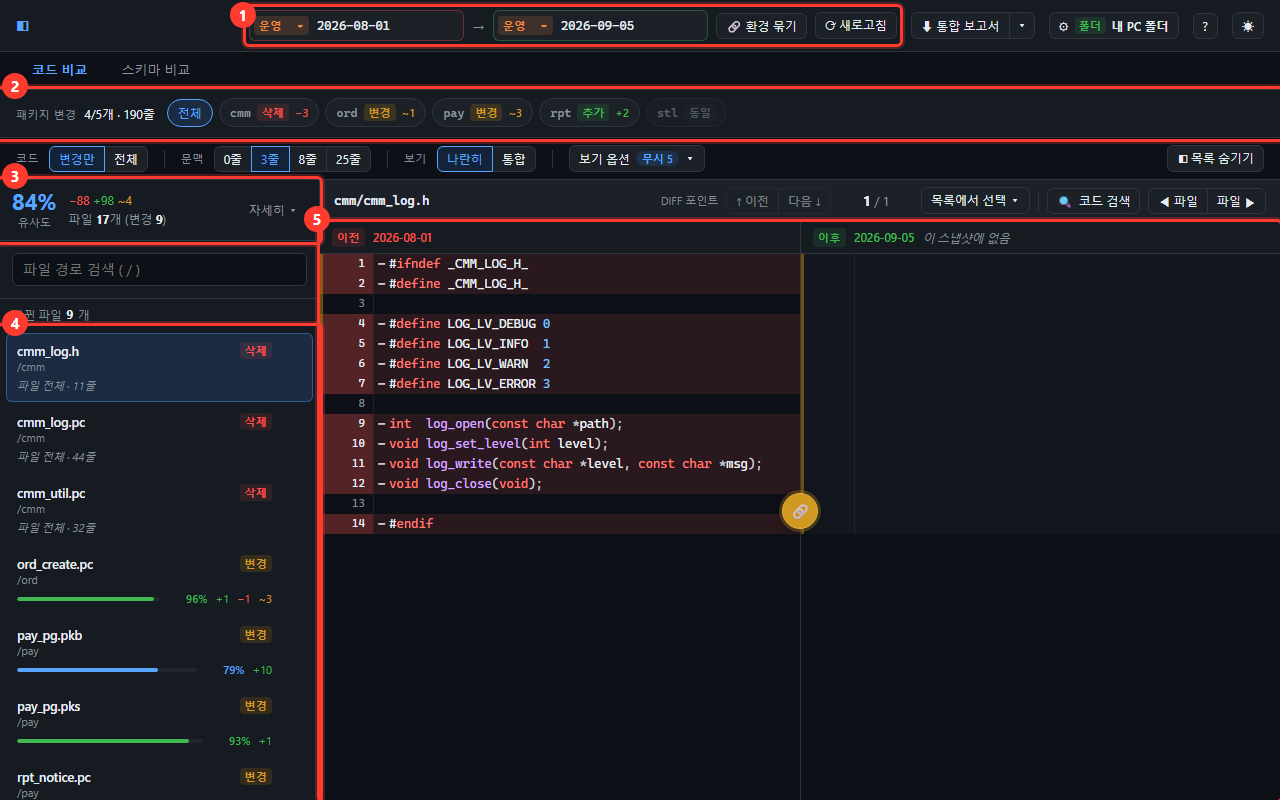
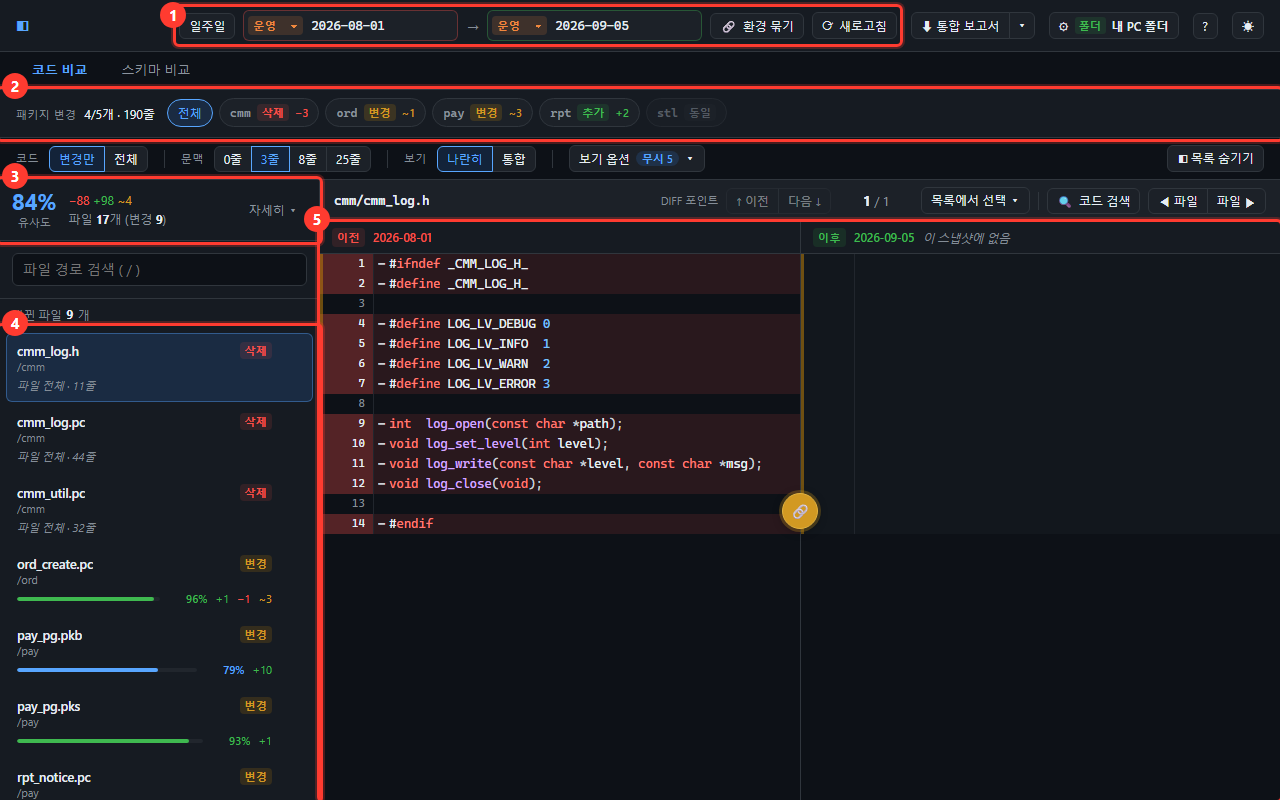
docs(shots): 고르기 장면에 일주일(⑦)을 표시하고 "모두 동일" 장면(14-allsame)을 더 찍는다

diff --git a/scripts/shot.html b/scripts/shot.html
@@ -150,6 +150,7 @@
           mark(doc, picks[1].querySelector('input'), 4, 4)
           mark(doc, '.snapshot-picker .env-link', 5, 4)
           mark(doc, byText(doc, 'button', '새로고침'), 6, 4)
+          mark(doc, '.snapshot-picker .week-preset', 7, 4)
         },
 
         /* 4. 운영 ↔ 테스트 */
@@ -246,6 +247,21 @@
           await sleep(300)
           mark(doc, button, 1, 3)
           mark(doc, '.settings.help', 2, 2)
+        },
+
+        /* 14. 바뀐 파일이 하나도 없을 때 — 배포가 없던 날(09-05)을 그 앞 배포일(09-01)과 견준다 */
+        async allsame(doc) {
+          const input = doc.querySelector('.pick.left input')
+          const setter = Object.getOwnPropertyDescriptor(doc.defaultView.HTMLInputElement.prototype, 'value').set
+          input.focus()
+          setter.call(input, '2026-09-01')
+          input.dispatchEvent(new doc.defaultView.Event('input', { bubbles: true }))
+          input.dispatchEvent(new doc.defaultView.KeyboardEvent('keydown', { key: 'Enter', bubbles: true }))
+          input.blur()
+          await until(() => doc.querySelector('.empty .btn.primary'))
+          await sleep(400)
+          mark(doc, '.viewer .empty', 1, 4)
+          mark(doc, '.same-fold', 2, 3)
         },
 
         /* 6. 코드 비교 화면 */
